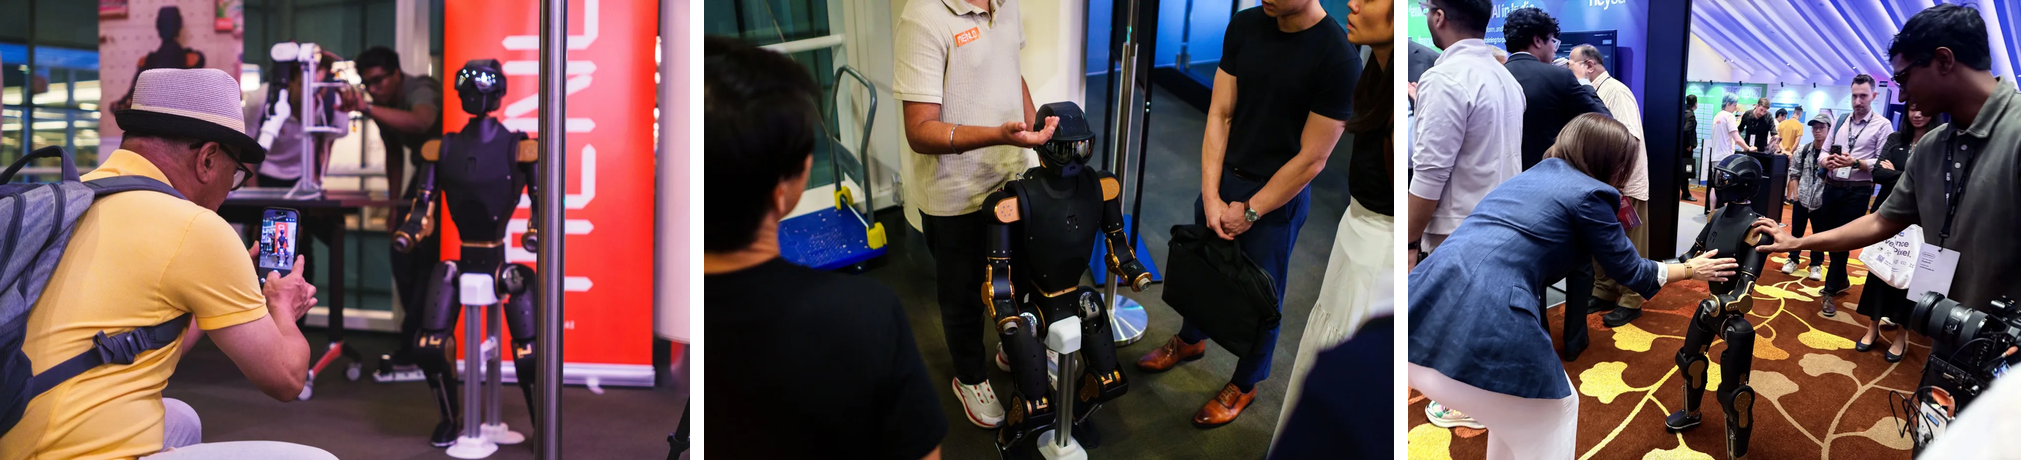
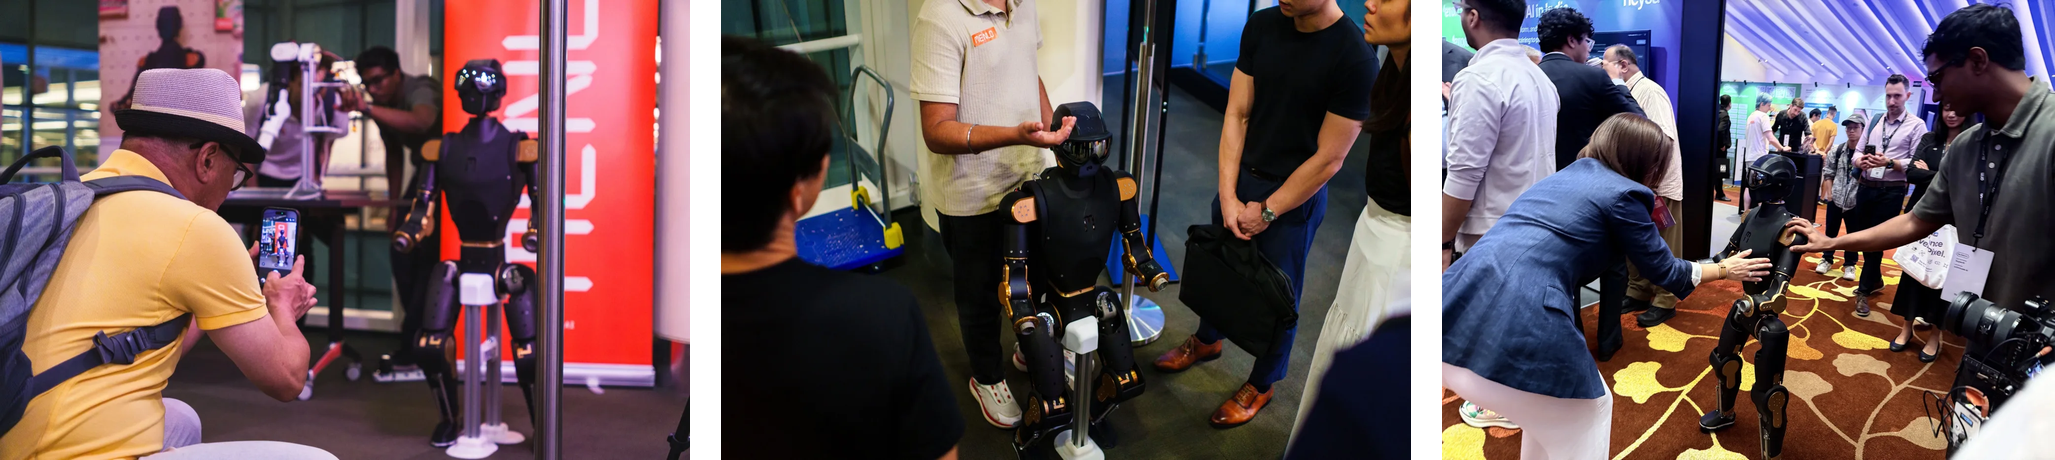
Improve GIF quality, match image gaps, drop stray break
- Regenerate GIF row at 12fps / 256-color palette / sierra2
  dither / 6s loop (was janky, washed out, abrupt)
- Recompute community-row gap to match the GIF gap fraction
- Remove <br> between get-involved intro and bullets

diff --git a/profile/README.md b/profile/README.md
@@ -21,8 +21,6 @@ Asimov is an open reference humanoid by [Menlo Research](https://menlo.ai), desi
 
 Asimov gets better the more people build alongside us.
 
-<br>
-
 - **[Join the community](https://t.co/8gggn94xwi)**: Come hang out, ask questions, show off what you're building
 - **[Partner with us](https://menlo.ai/partners)**: Manufacture Asimov with us
 - **[Get in touch](https://menlo.ai/talk)**: Deploy robots, collaborate on research, or find another way to work with us
